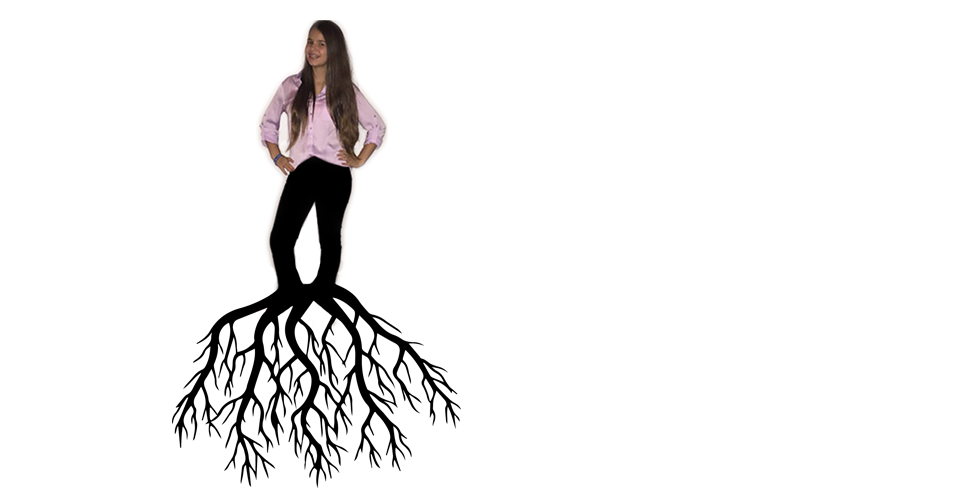
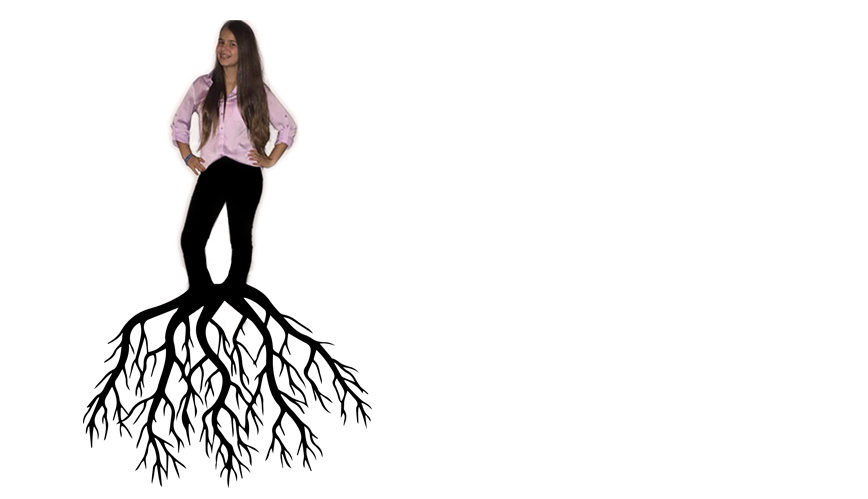
cambios fondo

Changed region(s): [[0.0933, 0.0301, 0.4977, 0.9619]]

diff --git a/Inicio/Árbol/arbol.html b/Inicio/Árbol/arbol.html
@@ -5,9 +5,9 @@
 <title>Árbol</title>
 <style type="text/css">
 body {
-	background-image: url(fondoarbol2.png);
+	background-image: url(fondoarbol.png);
 	background-repeat: no-repeat;
-	background-position: center top;
+	background-position: right top;
 }
 	
 	
@@ -33,14 +33,14 @@ body {
         <tr>
           <td>&nbsp;</td>
           <td style="text-align: center">&nbsp;</td>
-          <td colspan="3" style="text-align: center"><img src="dana carnet.png" width="152" height="152" alt=""/></td>
+          <td colspan="3" style="text-align: center">&nbsp;</td>
           <td>&nbsp;</td>
           <td>&nbsp;</td>
         </tr>
         <tr>
           <td>&nbsp;</td>
           <td align="center"><a href="https://link.com"><img src="Foto Carnet Papa.png" width="113" height="133" alt=""/></a></td>
-          <td colspan="3">&nbsp;</td>
+          <td colspan="3"><span style="text-align: center"><img src="dana carnet.png" width="152" height="152" alt=""/></span></td>
           <td align="center"><a href="https://danalevy.github.io/Escudos/Escudo%20Mam%C3%A1/ESCUDO_MAMA_.html"><img src="Foto Carnet Mama.png" width="126" height="127" alt="" align="center"/></a></td>
           <td>&nbsp;</td>
         </tr>
